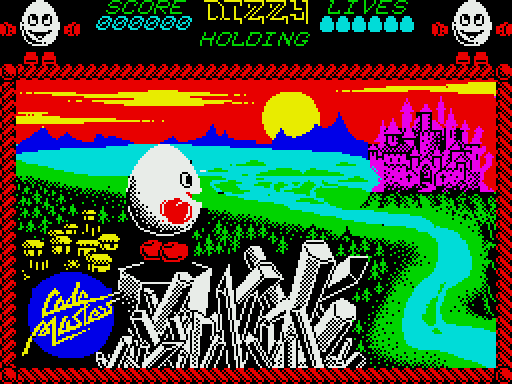
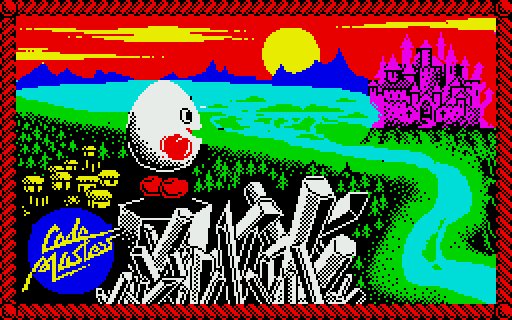
Update loading artwork and fit its new aspect ratio

diff --git a/Dizzy.web/wwwroot/index.html b/Dizzy.web/wwwroot/index.html
@@ -116,8 +116,8 @@
         #status-artwork {
             grid-area: 1 / 1;
             position: relative;
-            width: min(100%, calc(100vh * 4 / 3));
-            width: min(100%, calc(100dvh * 4 / 3));
+            width: min(100%, calc(100vh * 8 / 5));
+            width: min(100%, calc(100dvh * 8 / 5));
         }
 
         #status-splash {
@@ -199,7 +199,7 @@
 
     <div id="status">
         <div id="status-artwork">
-            <img id="status-splash" src="load.png" width="512" height="384" alt="Dizzy looking across the valley towards Zaks’s castle">
+            <img id="status-splash" src="load.png" width="512" height="320" alt="Dizzy looking across the valley towards Zaks’s castle">
             <div id="status-bar"><progress id="status-progress" aria-label="Loading progress"></progress></div>
         </div>
         <div id="status-notice" class="alert" role="alert"></div>
